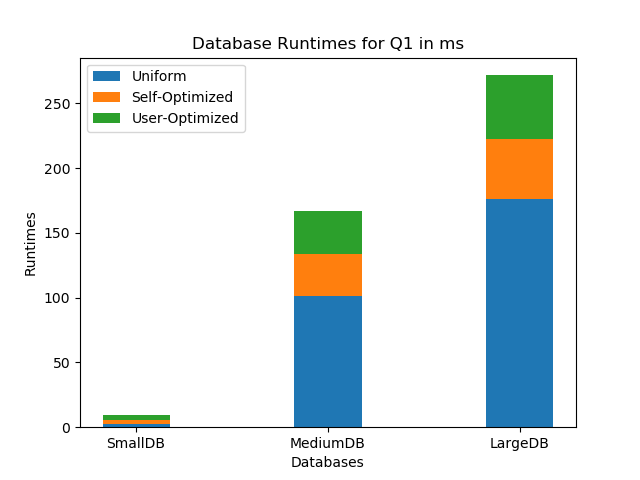
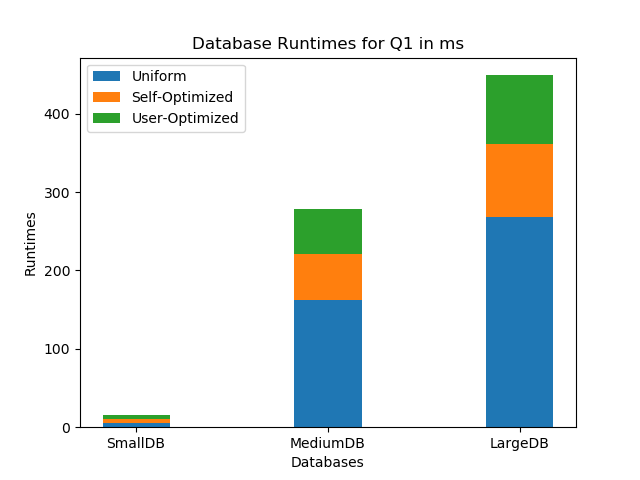
random generation fix

diff --git a/Q1A3.py b/Q1A3.py
@@ -16,8 +16,6 @@ def connectUniformed(path):
     # create a cursor object which will be used to execute sql statements
     cursor = connection.cursor()
 
-    # disabling automatic indexing
-    cursor.execute(' PRAGMA automatic_index=FALSE; ')
 
     # creating new tables without foreign keys or primary keys
     cursor.execute("CREATE TABLE 'CustomersNew' ('customer_id' TEXT, 'customer_postal_code' INTEGER);")
@@ -28,6 +26,10 @@ def connectUniformed(path):
     cursor.execute("ALTER TABLE CustomersNew RENAME TO Customers;")
     cursor.execute("ALTER TABLE Orders RENAME TO OrdersOriginal;")
     cursor.execute("ALTER TABLE OrdersNew RENAME TO Orders;")
+    
+    # disabling automatic indexing
+    cursor.execute(' PRAGMA automatic_index=FALSE; ')
+
     connection.commit()
 
     return
@@ -66,10 +68,8 @@ def connectUserOptimizied(path):
     connection.commit()
     return
 
-def closeUniform(path):
+def closeUniform():
     global connection, cursor
-    connection = sqlite3.connect(path)
-    cursor = connection.cursor()
 
     # cleaning up the tables and resetting the database
     cursor.execute("DROP TABLE Customers;")
@@ -117,11 +117,11 @@ def executeQuery():
     ORDER BY RANDOM()
     LIMIT 50;
     '''
+    cursor.execute(queryRandom)
+    inputPostal = cursor.fetchall()
     queryTime = 0
     # running the query 50 times and getting the average runtime
     for x in range(50):
-        cursor.execute(queryRandom)
-        inputPostal = cursor.fetchall()
         secondsBefore = time.time()
         cursor.execute(query, {"Postal": inputPostal[x][0]})
         secondsAfter = time.time()
@@ -133,7 +133,7 @@ def query():
     # Uniformed Small
     connectUniformed(dbSmall)
     executionTimeUniformSmall = executeQuery()
-    closeUniform(dbSmall)
+    closeUniform()
 
     # Self-optimized Small
     connectSelfOptimized(dbSmall)
@@ -148,7 +148,7 @@ def query():
      # Uniformed Medium
     connectUniformed(dbMedium)
     executionTimeUniformMedium = executeQuery()
-    closeUniform(dbMedium)
+    closeUniform()
 
     # Self-optimized Medium
     connectSelfOptimized(dbMedium)
@@ -163,7 +163,7 @@ def query():
      # Uniformed Large
     connectUniformed(dbLarge)
     executionTimeUniformLarge = executeQuery()
-    closeUniform(dbLarge)
+    closeUniform()
 
     # Self-optimized Large
     connectSelfOptimized(dbLarge)
